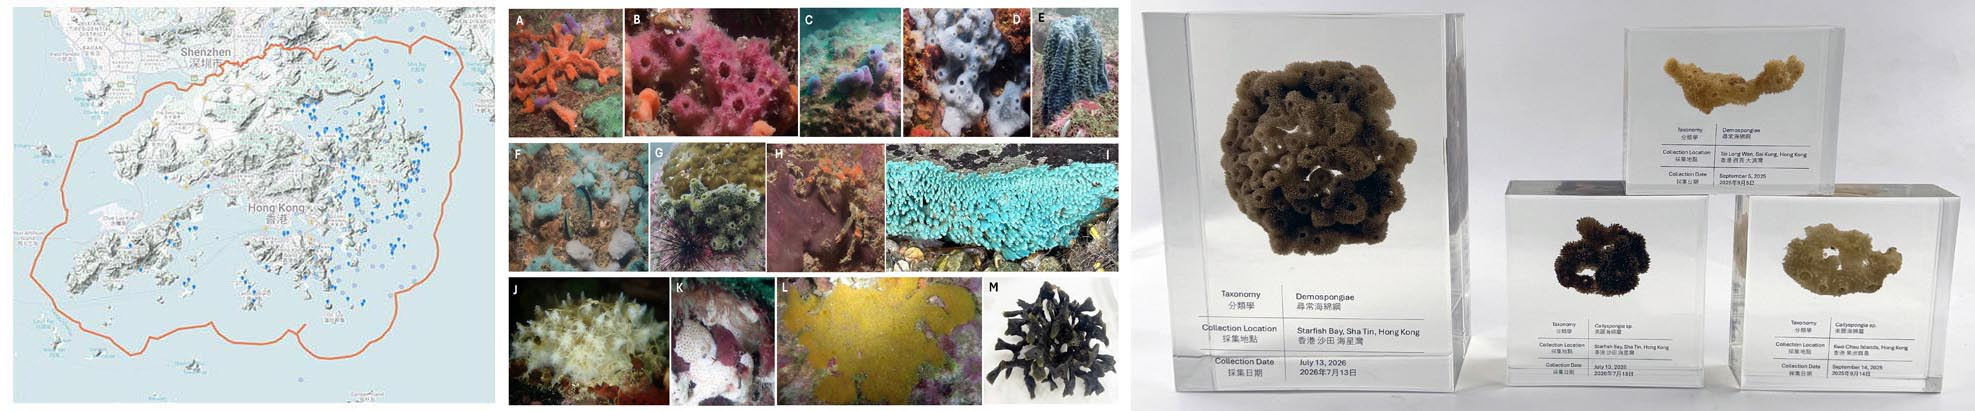
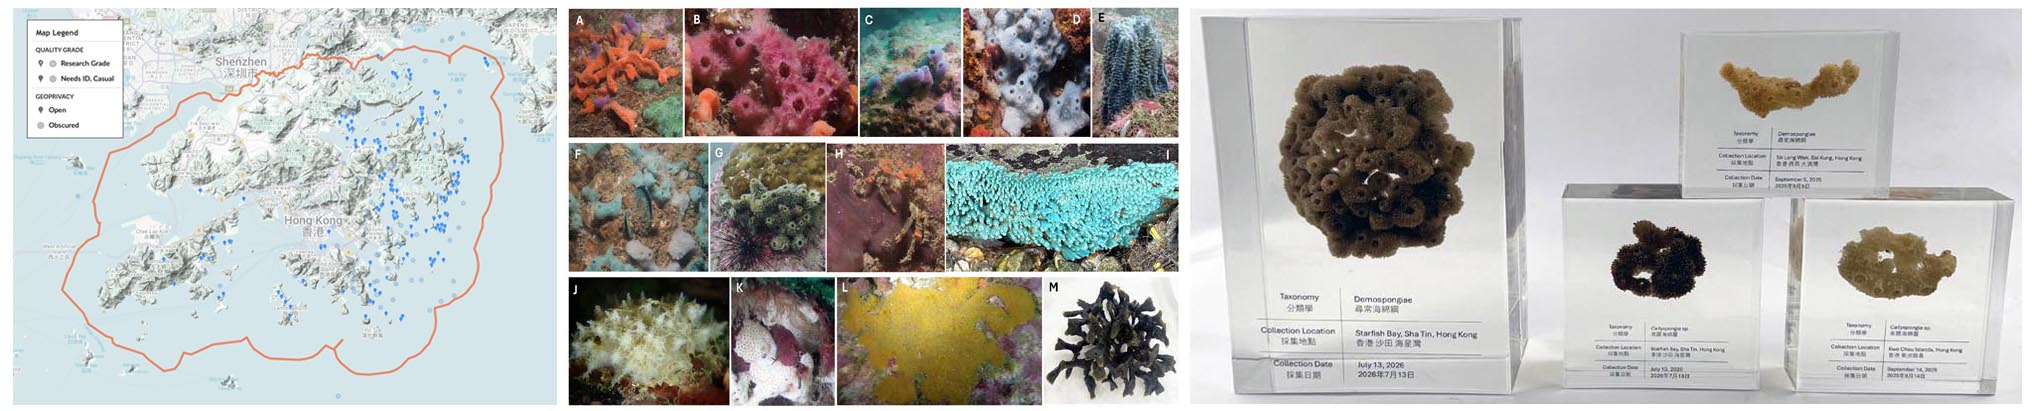
-

diff --git a/research.md b/research.md
@@ -75,9 +75,13 @@ With this project, I aim to establish a leading laboratory for sponge research i
 
 ![logo](assets/images/research/Hong_Kong_Sponge3.jpg)
 
-**Figure** On the left is the distribution of the 463 reported Porifera observations on iNaturalist across Hong Kong waters (accessed on December 3rd, 2025).
-on the right are Hong Kong sponges (some may need further confirmation) we observed during several dives near Basalt Island (A, B and C), Bluff Island (D and E), Breakers Reef (F, G and H), Hoi Ha Wan (I and J), Ninepin Island (K), Tai Long Wan (L) and Wong Ngai Chau (M and N).
-(All sponge photos presented here are **not yet published**. If you wish to use any of them, please **contact me for approval**. I would like to thank **Tom Kwok Lun HUI**, **Markus Rummel** and **Lucia Hu** for their great contributions in capturing the photos, collecting sponge samples, and preparing the proposal)
+**Figure** 
+**On the left** is the distribution of the 704 reported Porifera observations on iNaturalist across Hong Kong waters (accessed on 23 September 2026).
+**In the middle** are some sponges we observed during several dives across Hong Kong waters. 
+**On the right** are some specimens we made for public education and outreach activities. 
+No samples were collected from Hong Kong’s marine reserves.
+All photos presented here are not yet published. If you wish to use any of them, please **contact me for approval**. 
+I would like to thank **Tom Kwok Lun HUI**, **Markus Rummel** and **Lucia Hu** for their contributions in capturing the photos, collecting sponge samples, and preparing the proposal.
 
 [:arrow_up:](https://songweizhi.github.io/research)
 
